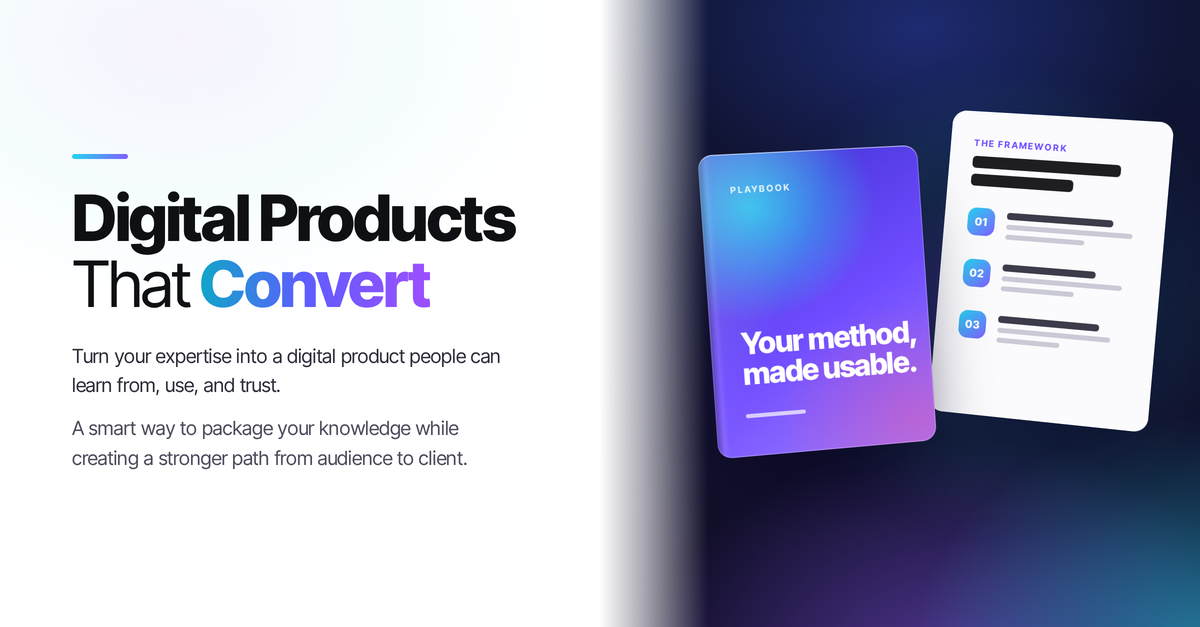
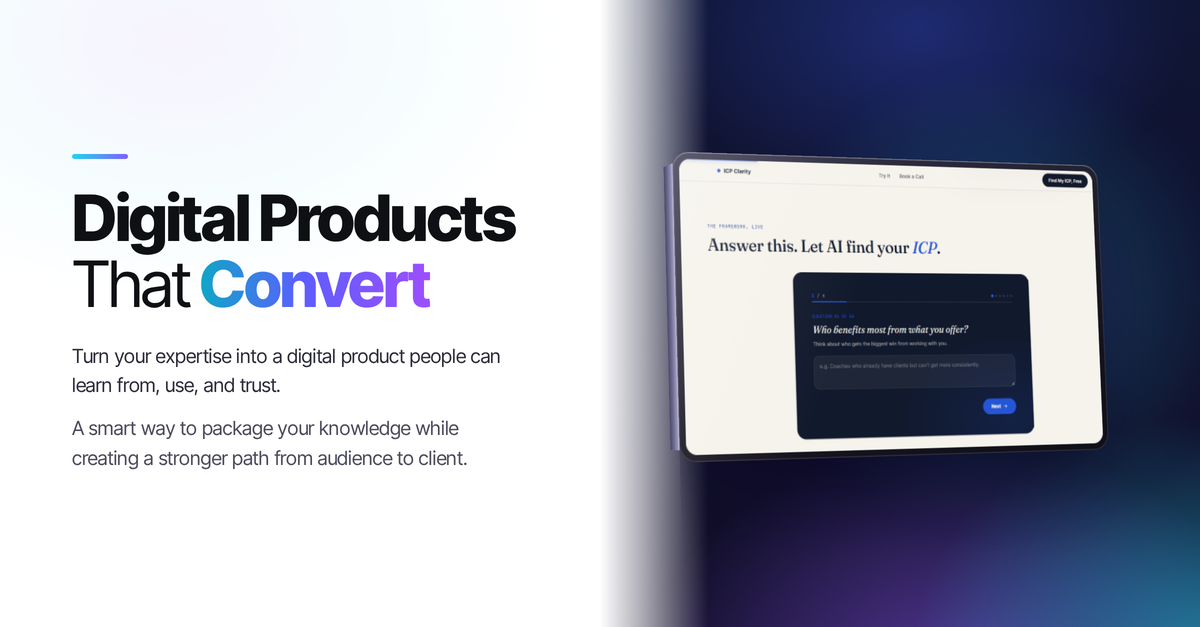
Show ICP Clarity tool on a 3D display in Digital Products creative
Replaces the playbook pages with the ICP Clarity screenshot on the
banner's 3D display (bezel, lit edge, sheen), turned toward the copy.

Claude-Session: https://claude.ai/code/session_011q5kajrfjwVNug5Dnxp9uM

Changed region(s): [[0.555, 0.1515, 0.9867, 0.7576]]

diff --git a/linkedin-banner/services/digital-products-that-convert.html b/linkedin-banner/services/digital-products-that-convert.html
@@ -28,41 +28,26 @@ h1 em{font-style:normal;font-weight:800;background:linear-gradient(90deg,#0ea5c6
 p{font-size:19.5px;line-height:1.5;color:var(--muted);letter-spacing:-.15px;max-width:450px}
 p.a{margin-top:26px;color:#2b2b38}
 p.b{margin-top:14px}
-/* digital product: playbook cover in front, open framework page behind */
-.rig{position:absolute;inset:0;perspective:1600px;perspective-origin:900px 313px}
-.page{position:absolute;left:938px;top:116px;width:222px;height:306px;border-radius:14px;background:#fbfbfd;
-  transform:rotateY(-14deg) rotateZ(5deg);box-shadow:0 30px 60px -18px rgba(8,6,36,.65),inset 0 0 0 1px rgba(255,255,255,.7);padding:26px 24px}
-.page .k{font-size:9px;font-weight:700;letter-spacing:1.4px;color:#6d4aff}
-.page .t{margin-top:8px;height:12px;width:150px;border-radius:4px;background:#1d1d1f}
-.page .t2{margin-top:6px;height:12px;width:104px;border-radius:4px;background:#1d1d1f}
-.step{display:flex;align-items:flex-start;gap:12px;margin-top:22px}
-.step b{flex:none;width:28px;height:28px;border-radius:9px;font-size:11px;font-weight:800;color:#fff;display:flex;align-items:center;justify-content:center;
-  background:linear-gradient(135deg,#22d3ee,#7c5cff)}
-.step div i{display:block;height:5px;border-radius:3px;background:#c9c9d6;margin-top:5px}
-.step div i:first-child{height:7px;background:#3a3a48;margin-top:3px}
-.cover{position:absolute;left:708px;top:150px;width:222px;height:300px;border-radius:14px;overflow:hidden;
-  transform:rotateY(12deg) rotateZ(-4deg);
-  background:radial-gradient(180px 160px at 22% 18%,rgba(34,211,238,.85),transparent 70%),radial-gradient(200px 170px at 90% 92%,rgba(236,72,153,.4),transparent 70%),linear-gradient(150deg,#3b2fd0,#6d4aff 55%,#9b7bff);
-  box-shadow:0 40px 70px -18px rgba(8,6,36,.75),inset 0 0 0 1px rgba(255,255,255,.22),inset 0 1px 0 rgba(255,255,255,.45)}
-.cover:before{content:"";position:absolute;left:0;top:0;bottom:0;width:12px;background:linear-gradient(90deg,rgba(0,0,0,.28),rgba(255,255,255,.08) 60%,transparent)}
-.cover:after{content:"";position:absolute;inset:0;background:linear-gradient(115deg,rgba(255,255,255,.22) 0%,rgba(255,255,255,0) 40%)}
-.cover .k{position:absolute;left:30px;top:30px;font-size:9px;font-weight:700;letter-spacing:1.6px;color:rgba(255,255,255,.85)}
-.cover h2{position:absolute;left:30px;bottom:66px;width:180px;font-size:30px;line-height:1.02;letter-spacing:-1px;font-weight:800;color:#fff}
-.cover .ln{position:absolute;left:30px;bottom:38px;width:60px;height:4px;border-radius:2px;background:rgba(255,255,255,.7)}
+/* digital product: the ICP Clarity tool on a 3D display, turned toward the copy */
+.rig{position:absolute;inset:0;perspective:1600px;perspective-origin:600px 313px}
+.dev{position:absolute;left:676px;top:150px;width:500px;height:312px;transform-style:preserve-3d;transform-origin:0 50%;transform:rotateY(18deg) rotateX(4deg)}
+.side{position:absolute;left:0;top:12px;bottom:12px;width:26px;transform-origin:0 50%;transform:rotateY(90deg);
+  background:linear-gradient(90deg,#c9c6e2 0%,#9d99bf 15%,#6f6b92 55%,#4a4766 100%)}
+.face{position:absolute;inset:0;border-radius:18px;overflow:hidden;background:linear-gradient(160deg,#34334a,#16151f 60%,#0f0f18);
+  box-shadow:inset 0 0 0 1px rgba(255,255,255,.14),inset 0 1px 0 rgba(255,255,255,.3),0 44px 80px -18px rgba(8,6,36,.7)}
+.scr{position:absolute;inset:7px;border-radius:12px;overflow:hidden;background:#f6f3ec}
+.scr img{width:110%;margin-left:-4%;margin-top:0;display:block}
+.sheen{position:absolute;inset:0;border-radius:18px;pointer-events:none;
+  background:linear-gradient(112deg,rgba(255,255,255,.2) 0%,rgba(255,255,255,.04) 28%,rgba(255,255,255,0) 42%)}
 </style></head>
 <body><div class="c">
   <div class="wash"></div>
   <div class="stage"></div>
   <div class="bloom"></div>
-  <div class="rig">
-    <div class="page">
-      <div class="k">THE FRAMEWORK</div><div class="t"></div><div class="t2"></div>
-      <div class="step"><b>01</b><div style="flex:1"><i style="width:80%"></i><i style="width:95%"></i><i style="width:60%"></i></div></div>
-      <div class="step"><b>02</b><div style="flex:1"><i style="width:70%"></i><i style="width:90%"></i><i style="width:55%"></i></div></div>
-      <div class="step"><b>03</b><div style="flex:1"><i style="width:76%"></i><i style="width:85%"></i><i style="width:48%"></i></div></div>
-    </div>
-    <div class="cover"><div class="k">PLAYBOOK</div><h2>Your method, made usable.</h2><div class="ln"></div></div>
-  </div>
+  <div class="rig"><div class="dev">
+    <div class="side"></div>
+    <div class="face"><div class="scr"><img src="icp-clarity-screenshot.png"></div><div class="sheen"></div></div>
+  </div></div>
   <div class="copy">
     <div class="rule"></div>
     <h1>Digital Products<br><span>That</span> <em>Convert</em></h1>
